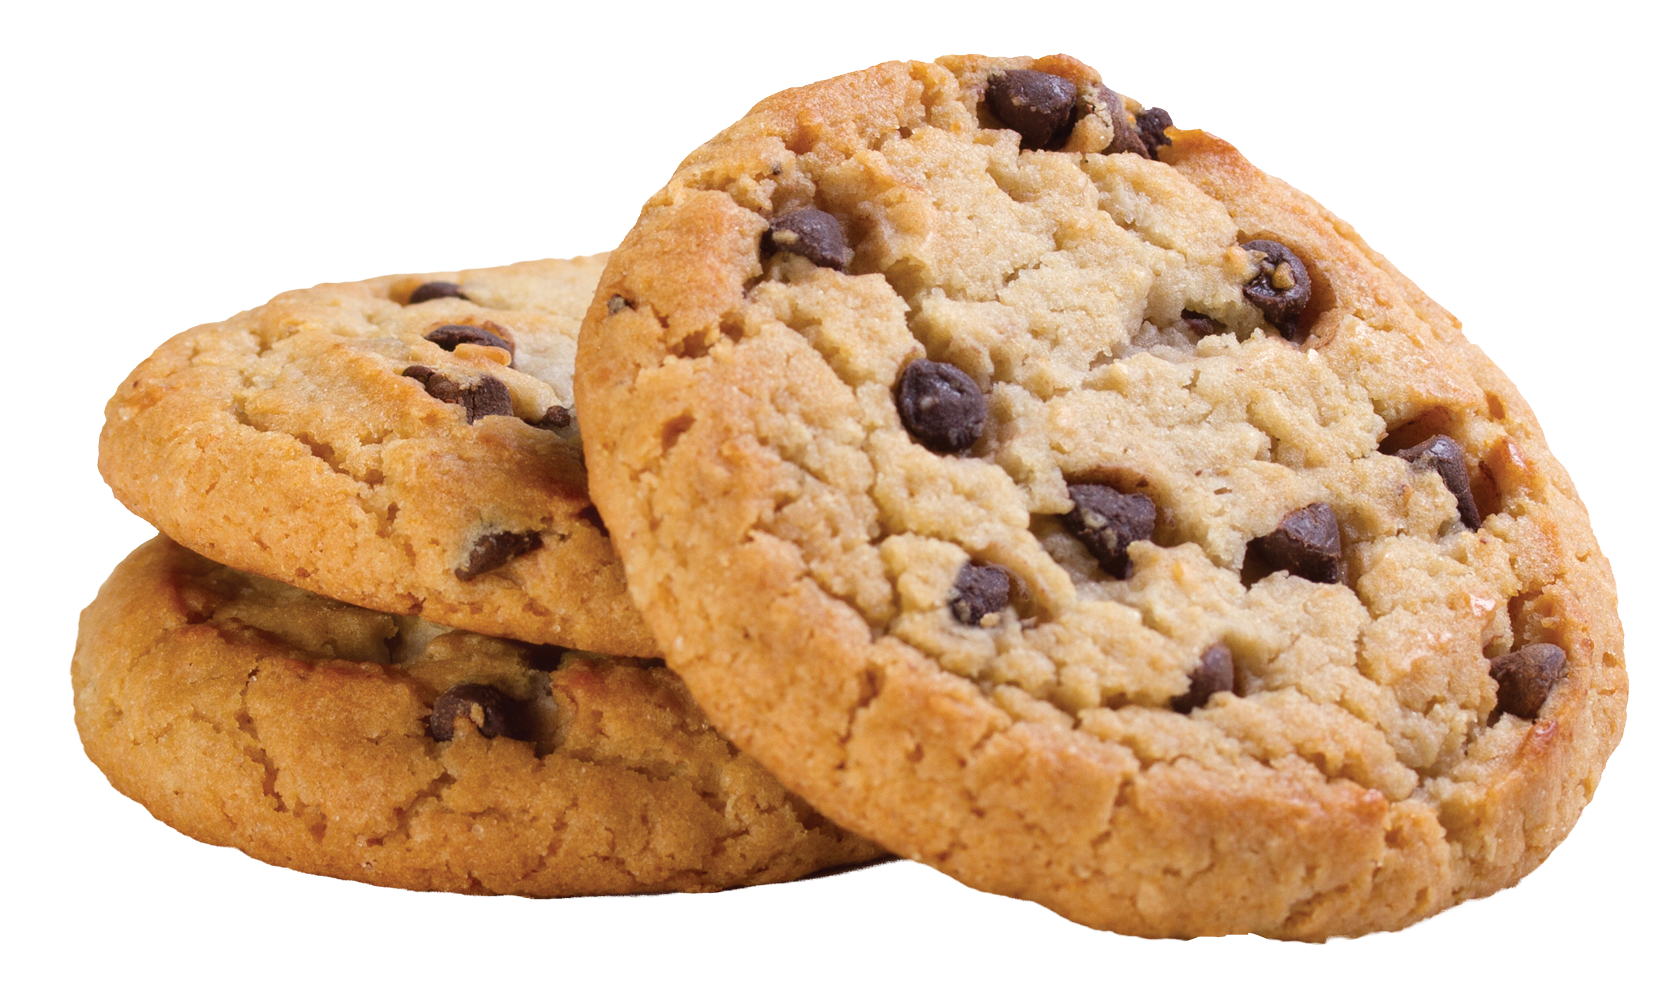
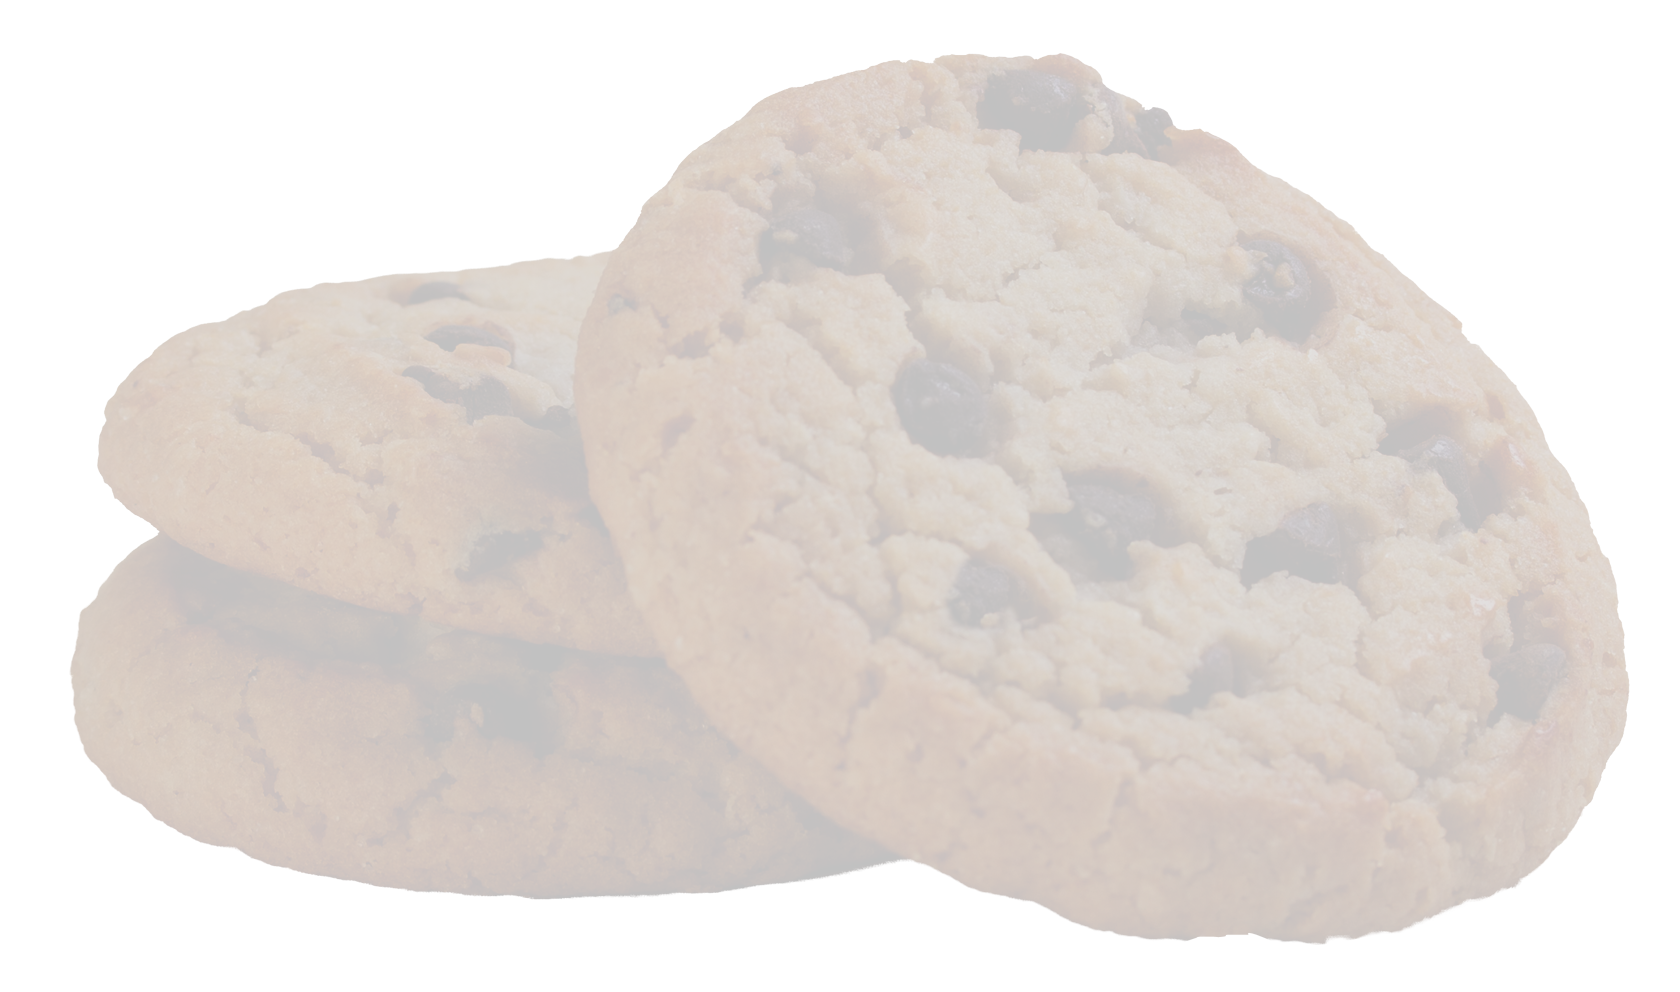
uitleg & vormgeving

diff --git a/src/components/CookieExplanation.vue b/src/components/CookieExplanation.vue
@@ -10,13 +10,17 @@
     <p>Als jij naar een website gaat, dan krijgt die website een aantal gegevens van jou. Natuurlijk het adres dat je opvraagt (bijv <code>www.unicef.nl/contact</code>, dit heet ook wel de URL), maar bijvoorbeeld ook de browser waarmee je de website bekijkt. Daardoor weet ik nu dat jij in <code>{{browser}}</code> op <code>{{os}}</code> zit.</p>
     <p>De website stuurt HTML terug. Die HTML verschilt als je naar een ander adres gaat, zodat je wat anders te zien krijgt op <code>www.unicef.nl/contact</code> en op <code>www.unicef.nl/nieuws</code>. De website kan ook andere HTML terugsturen op basis van je browser.</p>
 
-    <img alt="internet" src="../assets/internet.png" />
+    <img class="fw" alt="internet" src="../assets/internet.png" />
 
     <h2>Cookies</h2>
     <p>Cookies zijn speciaal, die gaan allebij de kanten op. Als een website HTML terug geeft, kan hij daar ook Cookies terug sturen. Die cookies worden op je computer opgeslagen, en de volgende keer dat jij informatie van de website vraagt, worden de cookies meegestuurt. De website weet dan: Ah, deze bezoeker is hier al eerder geweest!</p>
     <p>Cookies blijven op je computer achter als je weer van de website weg gaat. Een soort broodkruimels dus, uit Hans en Grietje. Sterker nog, daar zijn ze naar vernoemd :)</p>
     
-    <router-link class="cta" to="/stap2">Stap 2: Cookies bekijken</router-link>
+    <div class="cta-container">
+      <router-link class="cta" to="/stap2">
+        <img src="/images/arrow.svg" />
+      </router-link>
+    </div>
   </div>
 </template>
 
@@ -41,7 +45,7 @@ export default {
 
 <!-- Add "scoped" attribute to limit CSS to this component only -->
 <style scoped>
-  img {
+  img.fw {
     width: 100%;
     max-width: 800px;
   }

diff --git a/src/components/Tracking.vue b/src/components/Tracking.vue
@@ -3,8 +3,22 @@
     <h1>Tracking</h1>
     <p>Cookies zijn dus erg handig. Maar ze worden ook gebruikt om je te volgen op het internet.</p>
     <p>Grote bedrijven zoals Google en Facebook kunnen zo een heel specifiek profiel van jou opbouwen.</p>
+    <p>Dit gebeurt bijvoorbeeld met de Facebook Like button.</p>
+    <div id="fb-root"></div>
+    <div class="fb-like" data-href="https://www.facebook.com/StichtingFutureNL/" data-layout="button_count" data-action="like" data-size="large" data-show-faces="false" data-share="false"></div>
 
-    <router-link class="cta" to="/stap4">Stap 4: Wat weet een website over jou?</router-link>
+    <p>Zie je hierboven een Facebook Like button voor de Stichting FutureNL? Moet je nu eens in de cookies van je browser kijken...</p>
+    <p>Waarschijnlijk zie je nu naast de cookies van deze website, cookies van facebook.com:</p>
+    <img class="fw" src="../assets/3dparty.png" />
+
+    <p class="italic">Zie je de like button niet? Dan heb je waarschijnlijk al beveiliging tegen 3d party cookies aan staan!</p>
+
+    <div class="cta-container">
+      <router-link class="cta" to="/stap4">
+        <img src="/images/arrow.svg" />
+      </router-link>
+    </div>
+
   </div>
 </template>
 
@@ -12,7 +26,13 @@
 
 export default {
   created() {
-    
+    (function(d, s, id) {
+      var js, fjs = d.getElementsByTagName(s)[0];
+      if (d.getElementById(id)) return;
+      js = d.createElement(s); js.id = id;
+      js.src = 'https://connect.facebook.net/en_US/sdk.js#xfbml=1&version=v3.1';
+      fjs.parentNode.insertBefore(js, fjs);
+    }(document, 'script', 'facebook-jssdk'));
   }
 }
 </script>

diff --git a/src/App.vue b/src/App.vue
@@ -27,20 +27,8 @@ export default {
 </script>
 
 <style>
-html, body {
-  width: 100%;
-  height: 100%;
-  margin: 0;
-  padding: 0;
-}
-body::after {
-  content: "";
+body {
   background-color: #F1F1F1;
-  background-image: url('./assets/cookie-1.png');
-  background-repeat: no-repeat;
-  background-size: contain;
-  background-attachment: fixed;
-  opacity: 0.1;
   position:absolute;
   top:0; left: 0; bottom: 0; right: 0;
   z-index: -1;
@@ -49,14 +37,62 @@ body::after {
 #app {
   font-family: 'Avenir', Helvetica, Arial, sans-serif;
   color: #2c3e50;
-  padding: 0;
-  margin: 0;
-  width: 100%;
-  height: 100%;
-  overflow: auto;
 }
 #content {
-  margin: 4em;
+  text-align: left;
+  margin: 0.2em auto;
+  max-width: 740px;
+}
+h1 {
+  margin-top: 0.4em;
+  font-size: 1.875em;
+  line-height: 1.2;
+  font-weight: bold;
+}
+h2 {
+  margin-top: 0.4em;
+  font-weight: 300;
+  font-size: 1.625em;
+  line-height: 1.2;
+}
+p {
+
 }
 
+.cta-container {
+  text-align: center;
+  width:100%;
+}
+.cta {
+  height: 56px;
+  width: 56px;
+  margin: 20px auto;
+  background: rgba(34,34,34,0.35);
+  position: relative;
+  display: inline-block;
+  z-index: 10;
+  cursor: pointer;
+  background-size: 24px;
+  border-radius: 100%;
+  transition: all .15s ease-out;
+}
+.cta.pulsate {
+  animation: pulse 2s infinite;
+}
+.cta > img {
+  height: 24px;
+  width: 24px;
+  top: 50%;
+  left: 50%;
+  margin: -12px;
+  position: absolute;
+  transform: rotate(270deg);
+}
+
+.fw {
+  width: 100%;
+}
+.italic {
+  font-style: italic;
+}
 </style>

diff --git a/src/components/ViewCookies.vue b/src/components/ViewCookies.vue
@@ -47,7 +47,11 @@
       <p>Kun je er achter komen waar de cookie "<code>color</code>" voor gebruikt wordt?</p>
       <p><i>Tip: Verander de waarde en herlaad de pagina, wat is er veranderd?</i></p>
 
-      <router-link class="cta" to="/stap3">Stap 3: Tracking</router-link>
+      <div class="cta-container">
+        <router-link class="cta" to="/stap3">
+          <img src="/images/arrow.svg" />
+        </router-link>
+      </div>
 
     </div>
   </div>
@@ -60,7 +64,7 @@ var useragent = require('useragent');
 export default {
   data() {
     return {
-      color: 'white',
+      color: 'black',
       tempName: null,
       name: null,
       browser: {
@@ -97,7 +101,7 @@ export default {
 
 <!-- Add "scoped" attribute to limit CSS to this component only -->
 <style scoped>
-img {
+ul img {
   width: 100%;
   max-width: 500px;
 }

diff --git a/src/components/End.vue b/src/components/End.vue
@@ -3,16 +3,24 @@
     <h1>Klaar!</h1>
     <p>Gaaf, je bent aan het einde van deze Cookie-les!</p>
     <p>Hopelijk kijk je vanaf nu wat anders naar Cookies en Cookie banners :)</p>
+    <p class="bold">Het antwoord dat je nodig hebt om bij MediaMasters punten te verdienen, vind je in een cookie genaamd <code>HetAntwoord</code>.</p>
     <p>Happy surfing!</p>
     <p>Groetjes van <a href="http://www.futurenl.org">FutureNL</a> en <a href="https://www.q42.nl">Q42</a></p>    
   </div>
 </template>
 
 <script>
+var Cookies = require('js-cookie');
 
 export default {
   created() {
-    
+    Cookies.set('HetAntwoord', 'GezondeCookies');
   }
 }
 </script>
+
+<style>
+.bold {
+  font-weight: bold;
+}
+</style>

diff --git a/src/components/Banners.vue b/src/components/Banners.vue
@@ -9,15 +9,16 @@
 
     <p>Sommige websites (zoals ad.nl) verplichten je om alle cookies te accepteren. Op de volgende pagina gaan we eens kijken wat we daar toch tegen kunnen doen.</p>
 
-    <router-link class="cta" to="/stap6">Stap 6: Wat kun je hier tegen doen?</router-link>
+    <div class="cta-container">
+      <router-link class="cta" to="/stap6">
+        <img src="/images/arrow.svg" />
+      </router-link>
+    </div>
   </div>
 </template>
 
 <script>
-
 export default {
-  created() {
-    
-  }
-}
+  created() {}
+};
 </script>

diff --git a/src/components/Fight.vue b/src/components/Fight.vue
@@ -16,7 +16,11 @@
     <p>Google krijgt ontzettend veel informatie over jou doordat je hun zoekmachine gebruikt.</p>
     <p>Probeer bijvoorbeeld eens <a href="https://duckduckgo.com/" target="_blank">duckduckgo.com</a>.</p>
 
-    <router-link class="cta" to="/einde">Laatste stap!</router-link>
+    <div class="cta-container">
+      <router-link class="cta" to="/einde">
+        <img src="/images/arrow.svg" />
+      </router-link>
+    </div>
   </div>
 </template>
 

diff --git a/src/router.js b/src/router.js
@@ -48,15 +48,7 @@ export default new Router({
       component: End
     },
   ],
-  scrollBehavior: (to, from, savedPosition) => {
-    if (savedPosition) {
-      return savedPosition;
-    } else if (to.hash) {
-      return {
-        selector: to.hash
-      };
-    } else {
-      return { x: 0, y: 0 };
-    }
-  }
+  scrollBehavior() {
+    return { x: 0, y: 0 };
+  },
 })

diff --git a/src/components/Knowledge.vue b/src/components/Knowledge.vue
@@ -6,7 +6,11 @@
       <li v-for="d in data" :key="d">{{d}}</li>
     </ul>
 
-    <router-link class="cta" to="/stap5">Stap 5: Cookie banners</router-link>
+    <div class="cta-container">
+      <router-link class="cta" to="/stap5">
+        <img src="/images/arrow.svg" />
+      </router-link>
+    </div>
   </div>
 </template>
 
